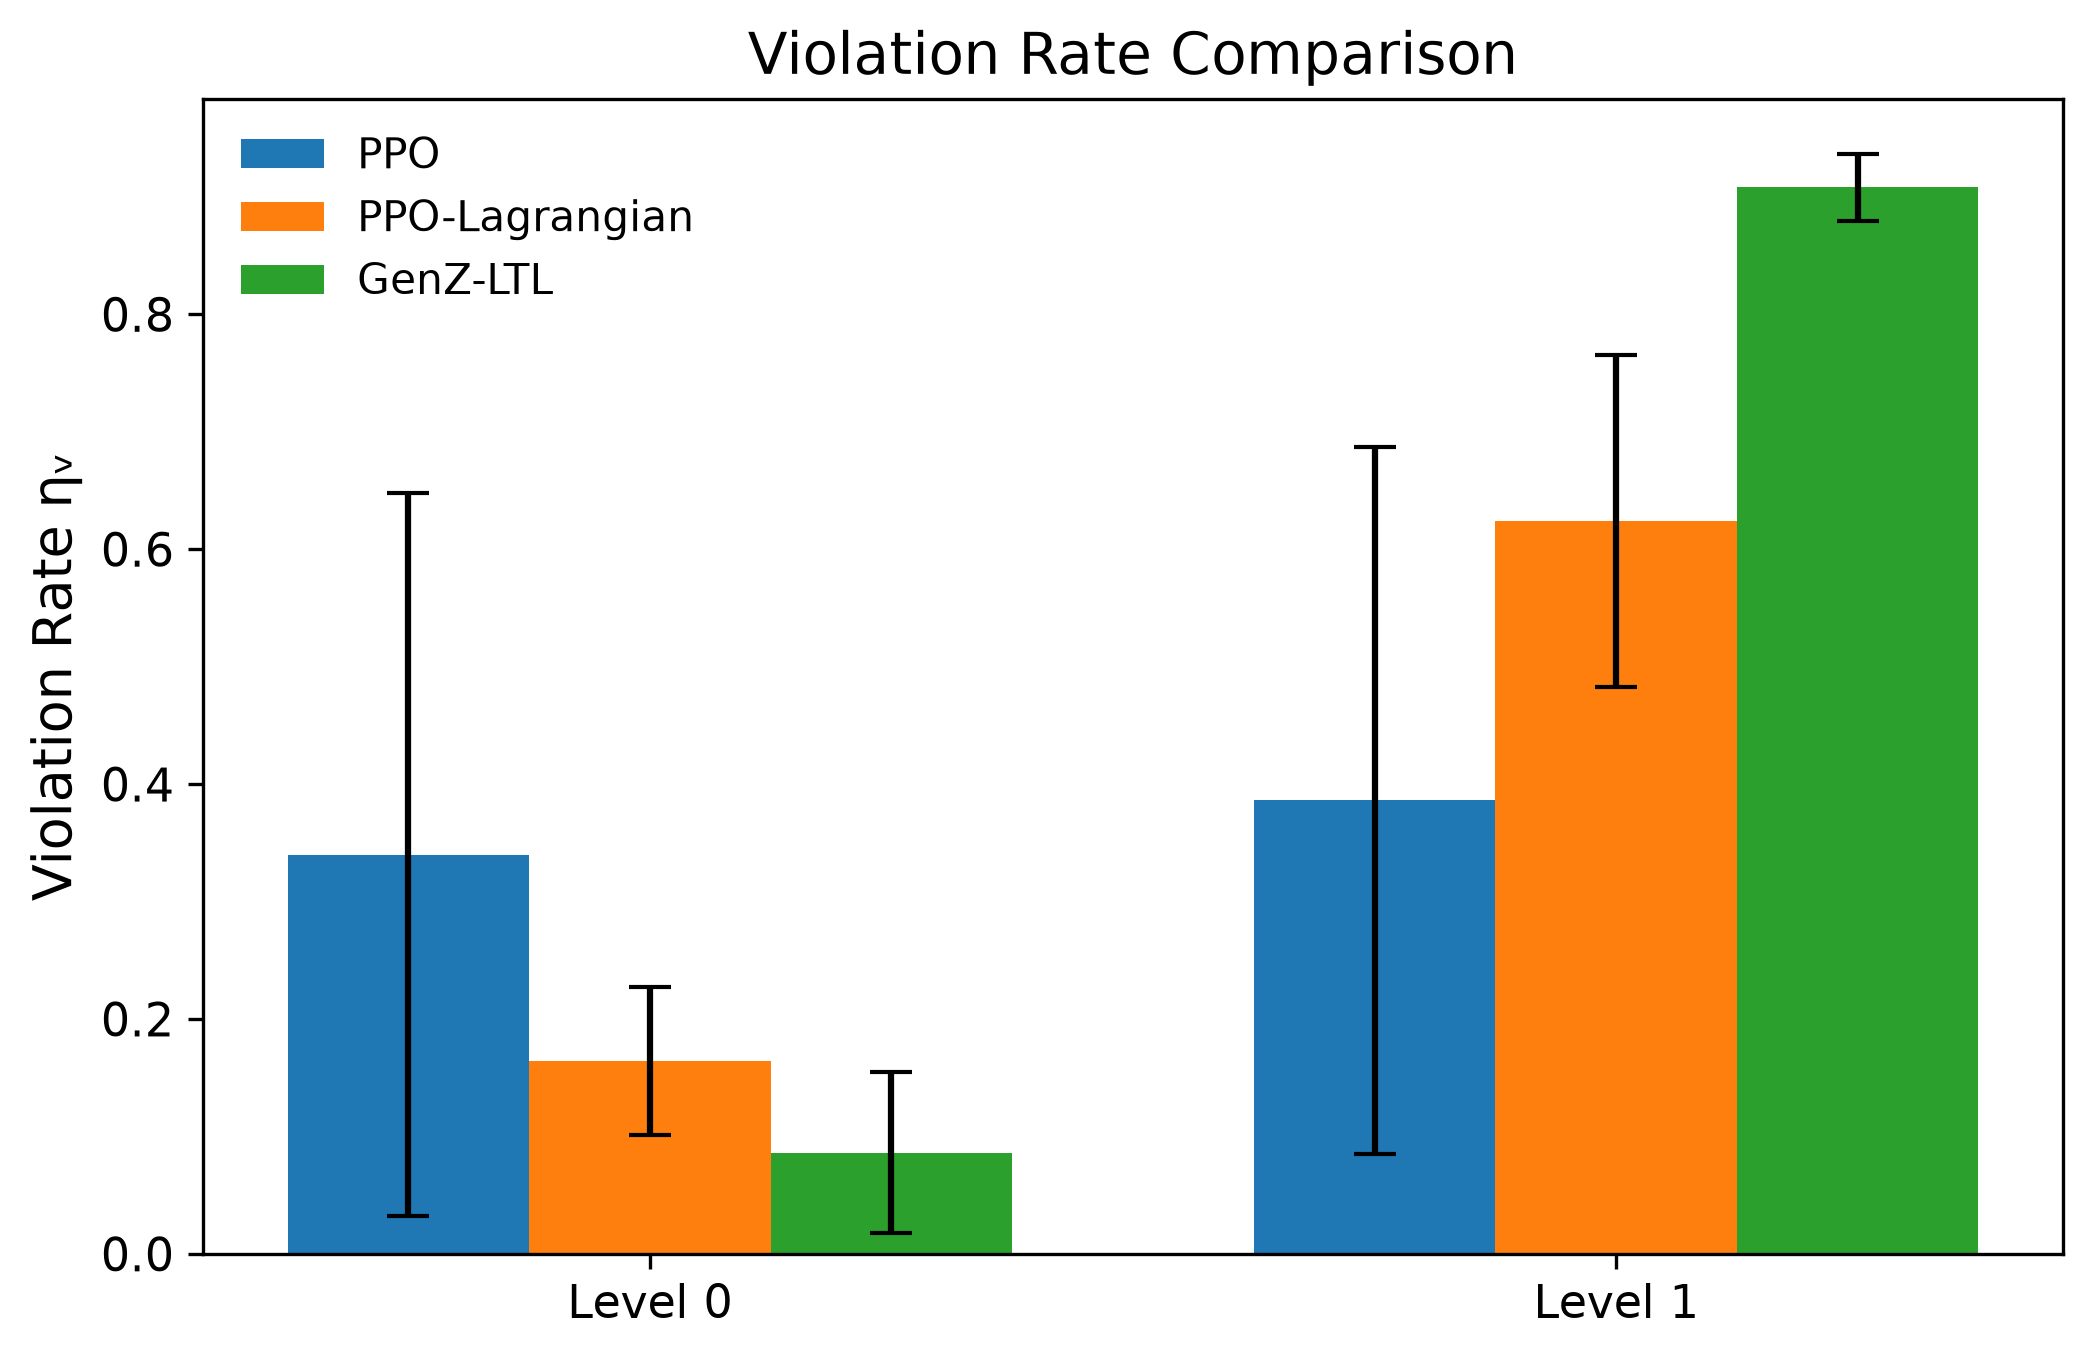
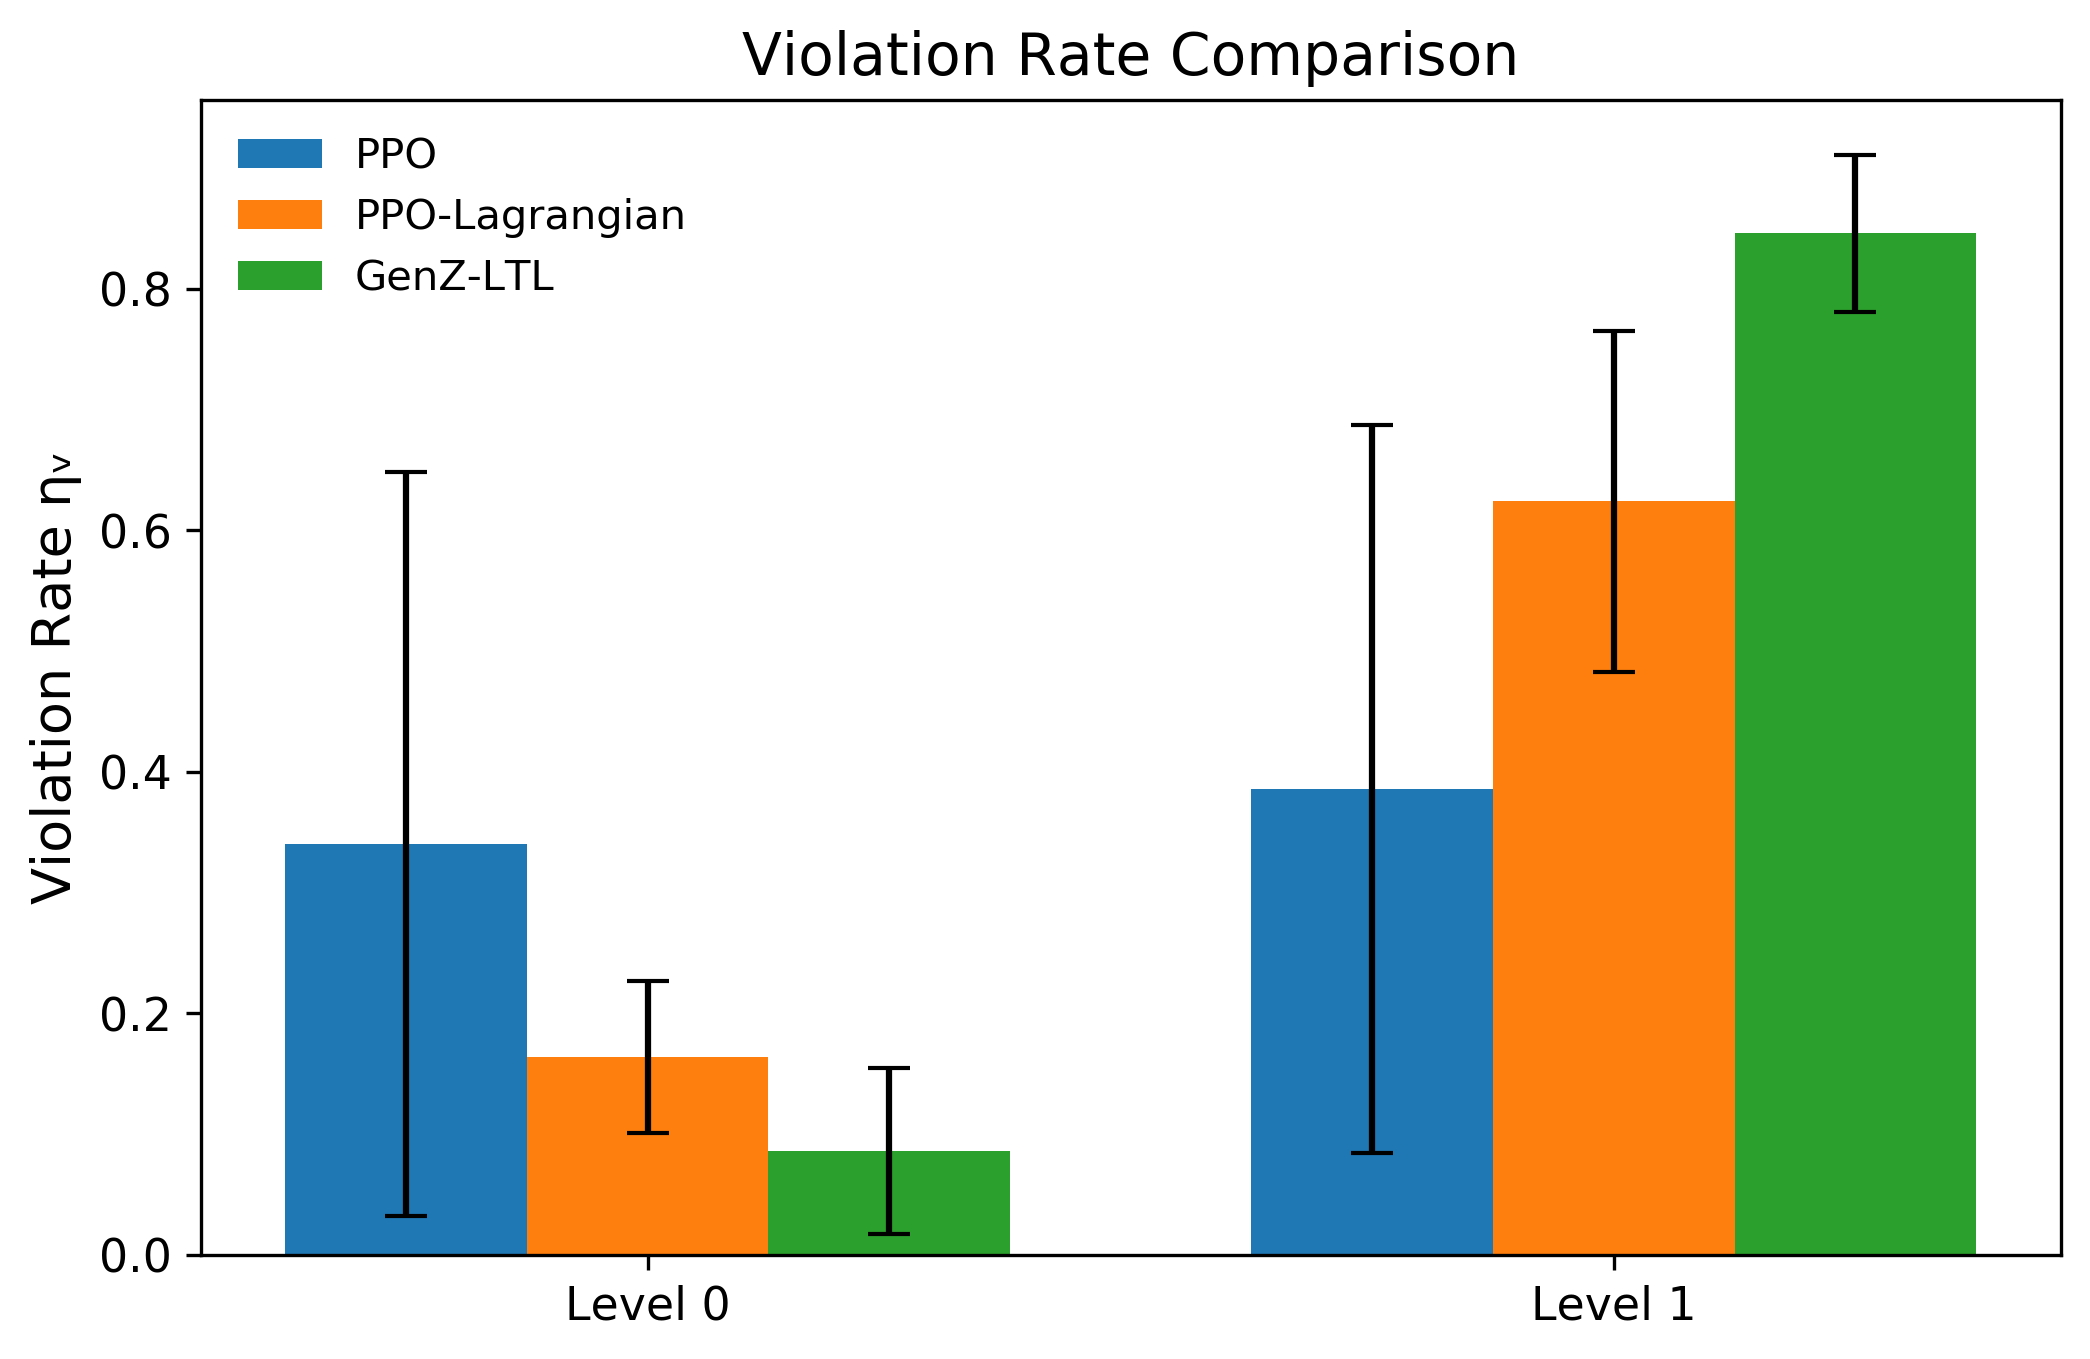
trying to draw trajectories for agnet

diff --git a/RISE-Training/visuals/ltl_graphs.py b/RISE-Training/visuals/ltl_graphs.py
@@ -22,7 +22,7 @@ data = {
         "Level 1": [
             [0.010, 0.010, 0.000, 0.000, 0.000],
             [0.000, 0.010, 0.030, 0.000, 0.000],
-            [0.020, 0.050, 0.100, 0.010, 0.030]
+            [0.080, 0.100, 0.170, 0.130, 0.240]
         ]
     },
 
@@ -37,7 +37,7 @@ data = {
         "Level 1": [
             [0.690, 0.740, 0.170, 0.190, 0.140],
             [0.570, 0.600, 0.570, 0.870, 0.510],
-            [0.910, 0.910, 0.870, 0.950, 0.900]
+            [0.910, 0.900, 0.820, 0.850, 0.750]
         ]
     },
 
@@ -52,7 +52,7 @@ data = {
         "Level 1": [
             [637.0, 625.0, np.nan, np.nan, np.nan],
             [np.nan, 2259.0, 1169.7, np.nan, np.nan],
-            [542.500, 652.600, 620.100, 716.000, 664.667]
+            [633.250, 786.600, 833.059, 785.077, 794.458]
         ]
     }
 }
@@ -130,9 +130,7 @@ def make_plot(metric, ylabel, title, filename):
     )
 
 
-    save_dir = os.path.expanduser(
-        "~/RISE-2026/RISE-Training/visuals"
-    )
+    save_dir = os.path.dirname(os.path.abspath(__file__))
 
     os.makedirs(
         save_dir,
